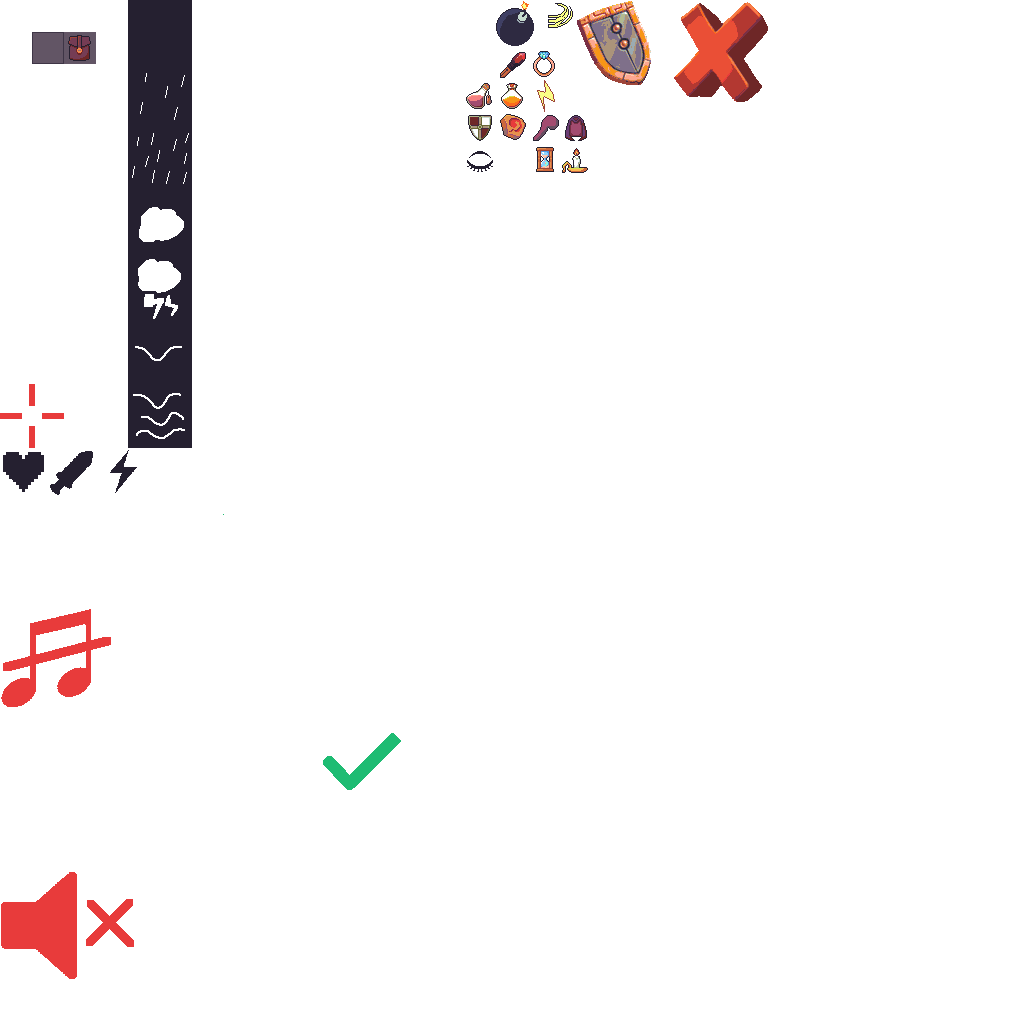
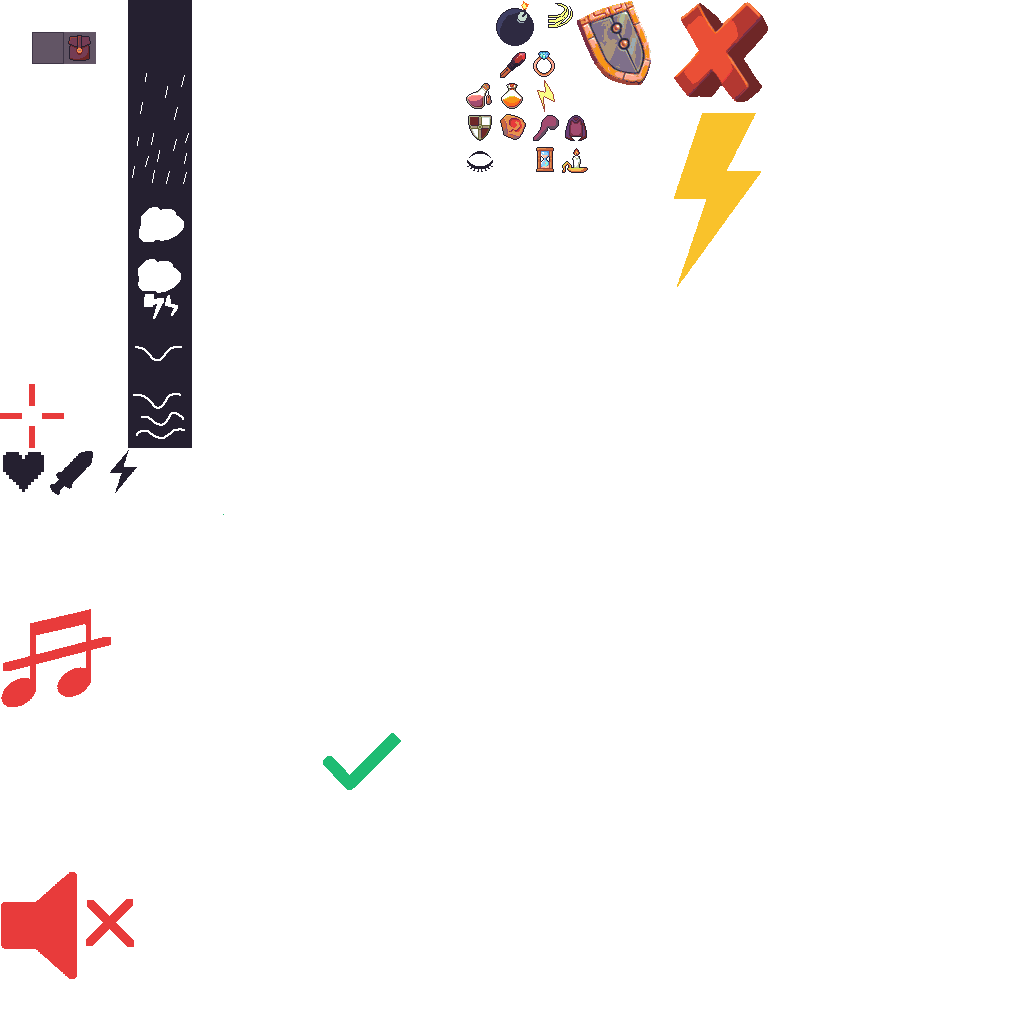
0.8.088

Changed region(s): [[0.6562, 0.0938, 0.75, 0.2812]]

diff --git a/gamestream_flutter/lib/atlases/atlas_icons.dart b/gamestream_flutter/lib/atlases/atlas_icons.dart
@@ -43,7 +43,7 @@ class AtlasIcons {
     IconType.Power_Invisible: 563,
     IconType.Power_Teleport: 503,
     IconType.Power_Revive: 466,
-    IconType.Power_Stun: 534,
+    IconType.Power_Stun: 674,
     IconType.Music_Enabled: 1,
     IconType.Music_Disabled: 1,
   }[itemType] ?? 0;
@@ -93,7 +93,7 @@ class AtlasIcons {
     IconType.Power_Invisible: 115,
     IconType.Power_Teleport: 115,
     IconType.Power_Revive: 84,
-    IconType.Power_Stun: 83,
+    IconType.Power_Stun: 113,
     IconType.Music_Enabled: 499,
     IconType.Music_Disabled: 609,
   }[itemType] ?? 0;
@@ -121,7 +121,7 @@ class AtlasIcons {
     IconType.Power_Invisible: 26,
     IconType.Power_Teleport: 18,
     IconType.Power_Revive: 26,
-    IconType.Power_Stun: 25,
+    IconType.Power_Stun: 87,
     IconType.Music_Enabled: 90,
     IconType.Music_Disabled: 90,
   }[itemType] ?? getSrcSize(itemType);
@@ -149,7 +149,7 @@ class AtlasIcons {
     IconType.Power_Invisible: 25,
     IconType.Power_Teleport: 25,
     IconType.Power_Revive: 26,
-    IconType.Power_Stun: 26,
+    IconType.Power_Stun: 174,
     IconType.Music_Enabled: 98,
     IconType.Music_Disabled: 98,
   }[itemType] ?? getSrcSize(itemType);

diff --git a/bleed-common/lib/src/version.dart b/bleed-common/lib/src/version.dart
@@ -1,4 +1,4 @@
-const version = '0.8.087';
+const version = '0.8.088';
 
 
 

diff --git a/bleed-server/lib/common/src/version.dart b/bleed-server/lib/common/src/version.dart
@@ -1,4 +1,4 @@
-const version = '0.8.087';
+const version = '0.8.088';
 
 
 
